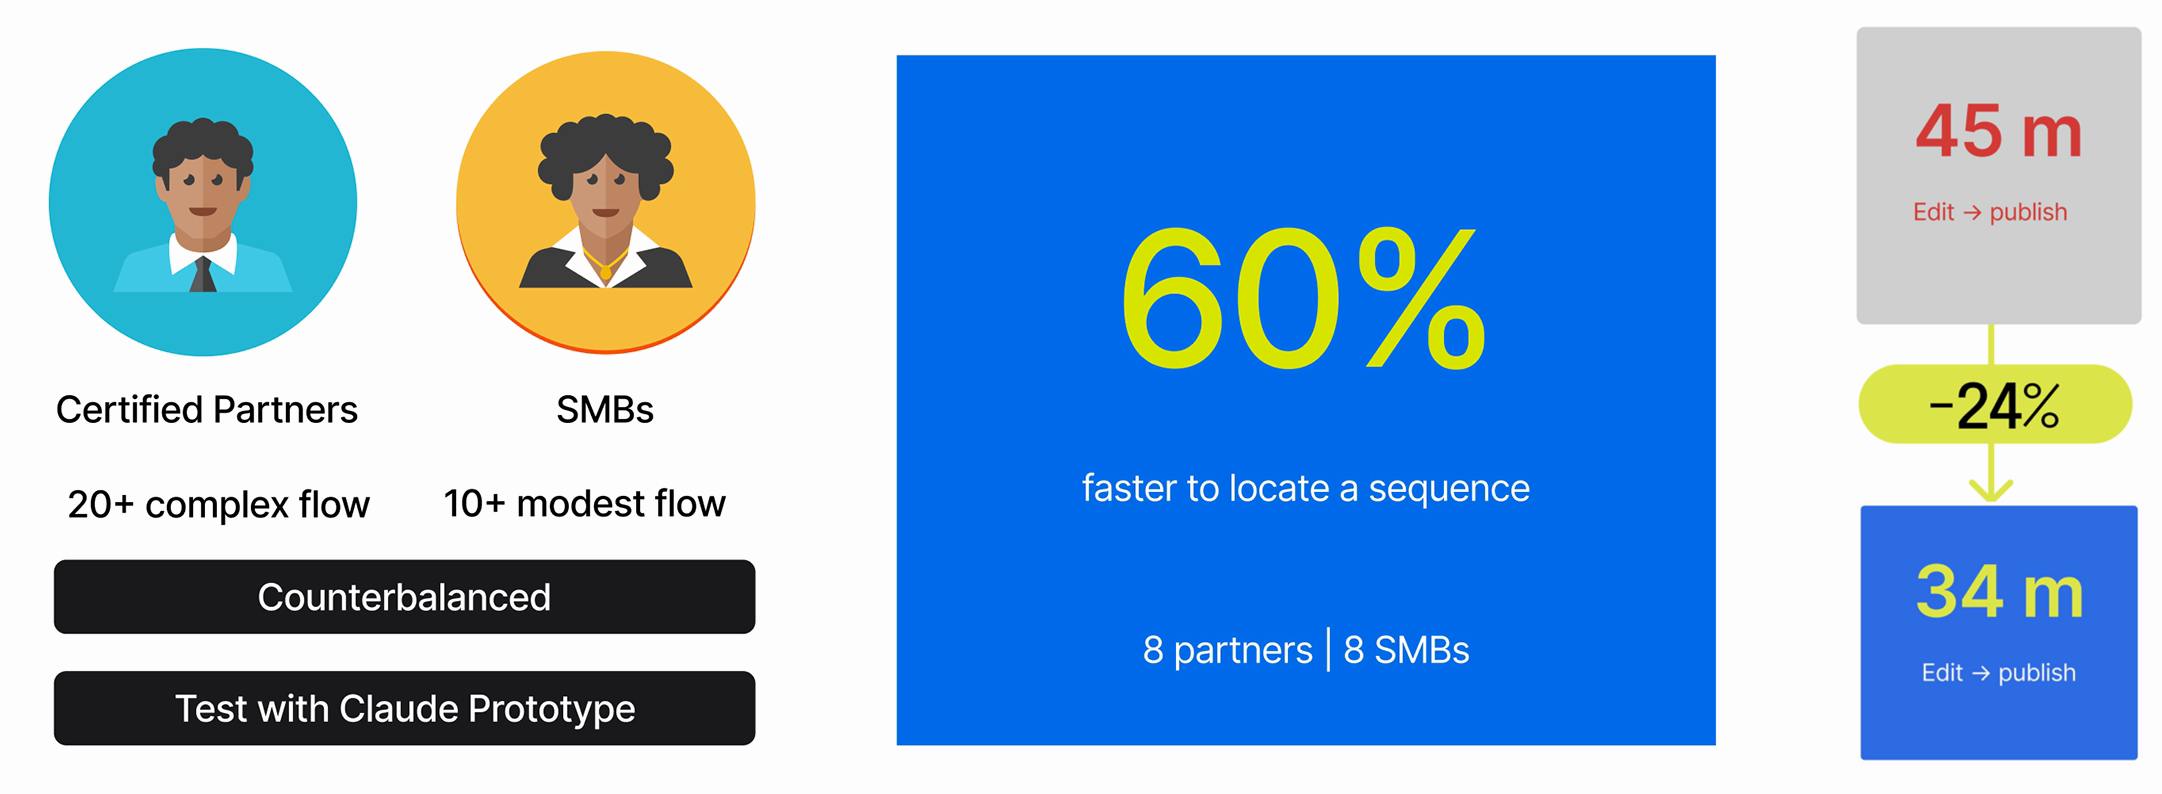
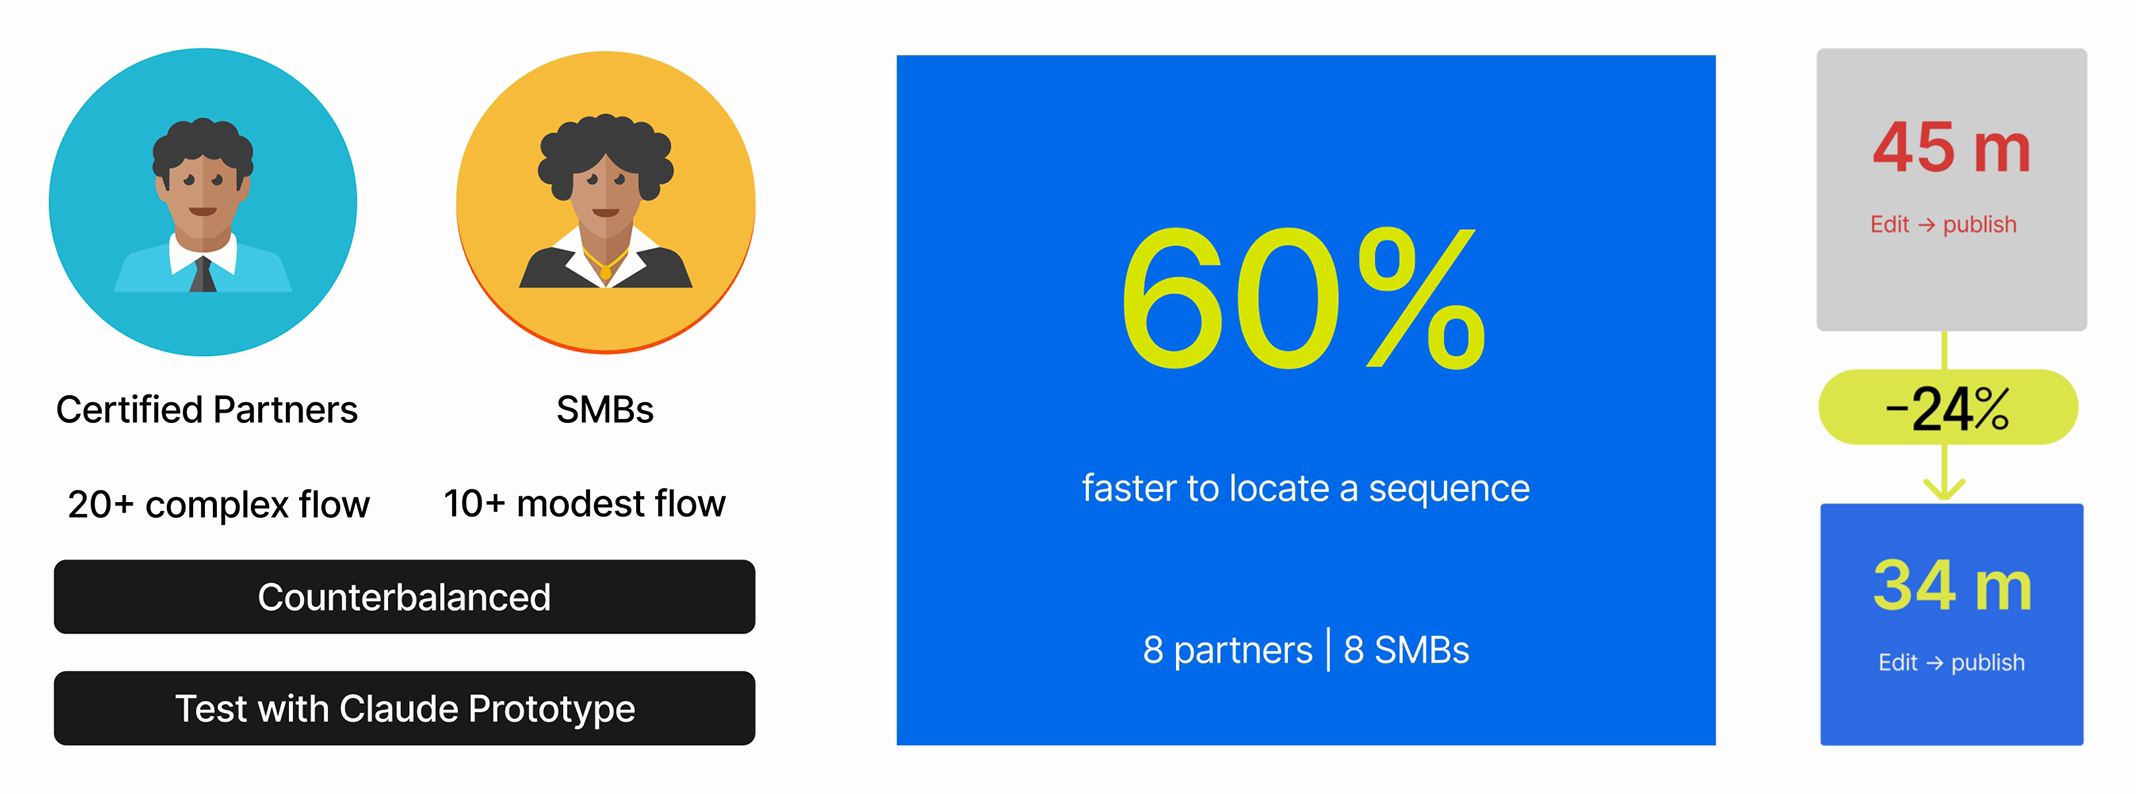
Match the metric card height to the usability outcome

diff --git a/thryv-automation.html b/thryv-automation.html
@@ -179,7 +179,7 @@
           <p>In testing with 8 partners and 8 small business owners, users found sequences 60% faster. In the post-launch metric follow-up, edit-to-publish time dropped from 45 to 34 minutes, a 24% improvement.</p>
         </div>
         <figure class="case-figure">
-          <img src="media/thryv-automation/search-outcomes.png?v=1" alt="Usability test outcome and post-launch metric" loading="lazy">
+          <img src="media/thryv-automation/search-outcomes.png?v=2" alt="Usability test outcome and post-launch metric" loading="lazy">
           <figcaption>Usability test outcome and post-launch metric</figcaption>
         </figure>
       </section>
